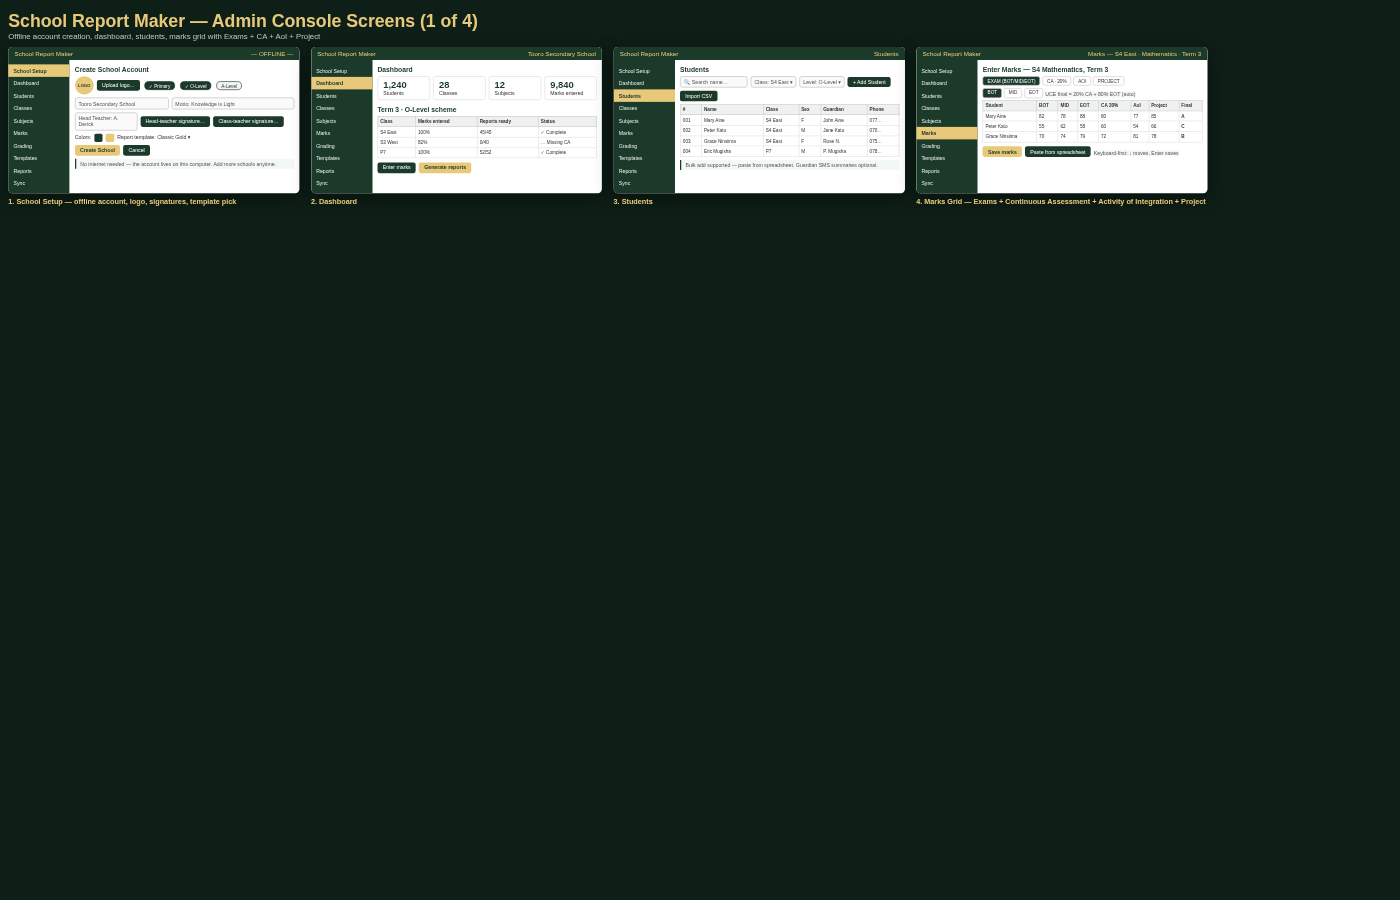
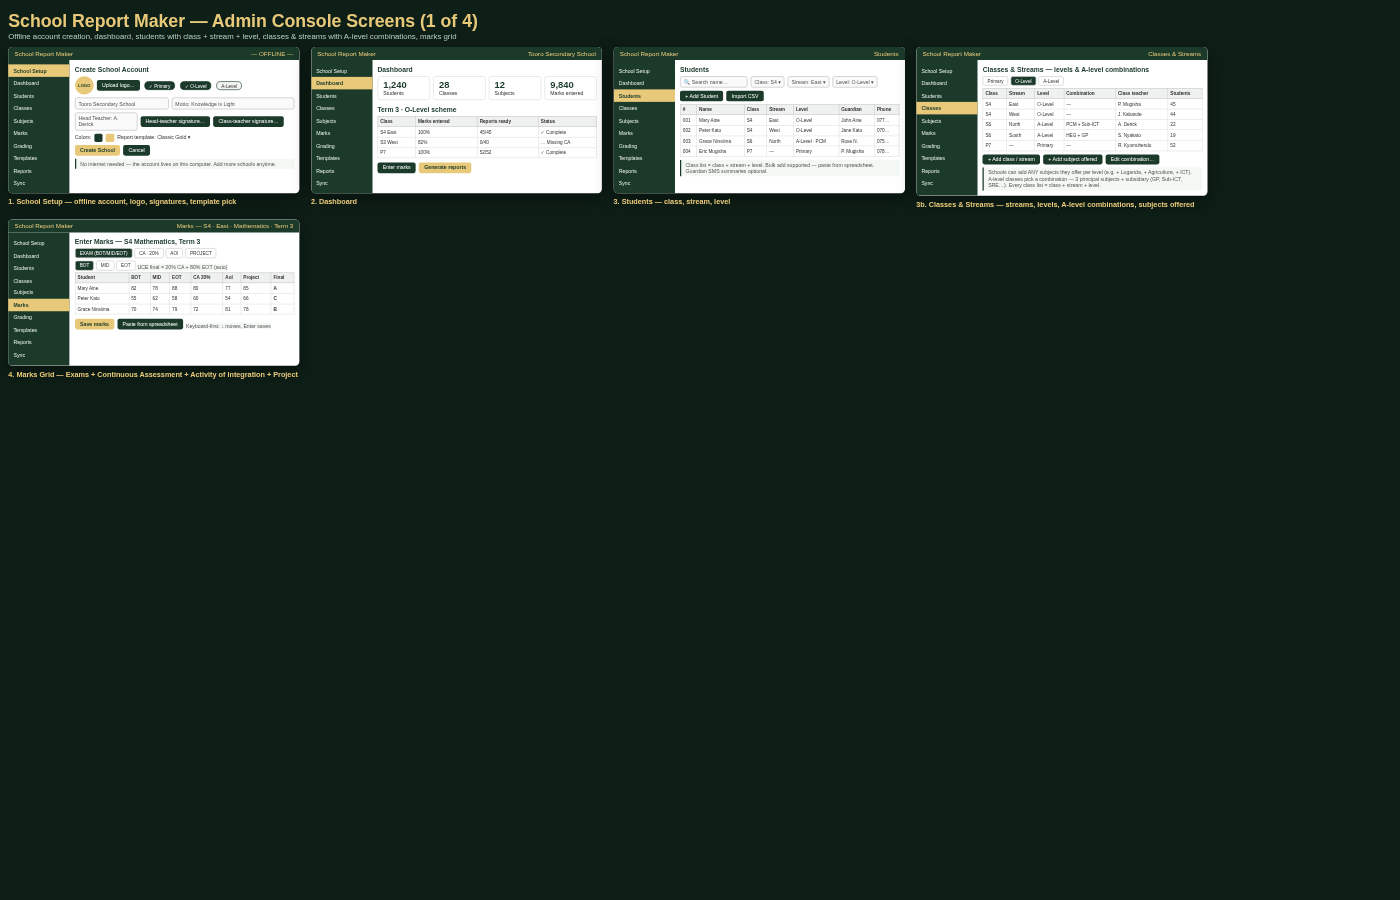
plan+design: class lists with class+stream+level on both apps, A-level combinations, schools can add subjects offered per level

diff --git a/design/screens-admin.html b/design/screens-admin.html
@@ -43,7 +43,7 @@ td{padding:4px;border:1px solid #e2e2e2}
 .cmt{border:1px dashed #999;padding:4px;margin:3px 0;font-size:8px;color:#333}
 </style></head><body>
 <h1>School Report Maker — Admin Console Screens (1 of 4)</h1>
-<p>Offline account creation, dashboard, students, marks grid with Exams + CA + AoI + Project</p>
+<p>Offline account creation, dashboard, students with class + stream + level, classes &amp; streams with A-level combinations, marks grid</p>
 <div class="wrap">
 
 <div class="cell"><div class="frame win">
@@ -75,17 +75,32 @@ td{padding:4px;border:1px solid #e2e2e2}
 <div class="tbar"><span>School Report Maker</span><span>Students</span></div>
 <div class="wbody"><div class="side"><div>School Setup</div><div>Dashboard</div><div class="on">Students</div><div>Classes</div><div>Subjects</div><div>Marks</div><div>Grading</div><div>Templates</div><div>Reports</div><div>Sync</div></div>
 <div class="main"><h3>Students</h3>
-<div class="row"><span class="inp" style="width:130px">🔍 Search name…</span><span class="inp">Class: S4 East ▾</span><span class="inp">Level: O-Level ▾</span><span class="btn">+ Add Student</span><span class="btn">Import CSV</span></div>
-<table><tr><th>#</th><th>Name</th><th>Class</th><th>Sex</th><th>Guardian</th><th>Phone</th></tr>
-<tr><td>001</td><td>Mary Aine</td><td>S4 East</td><td>F</td><td>John Aine</td><td>077…</td></tr>
-<tr><td>002</td><td>Peter Kato</td><td>S4 East</td><td>M</td><td>Jane Kato</td><td>070…</td></tr>
-<tr><td>003</td><td>Grace Ninsiima</td><td>S4 East</td><td>F</td><td>Rose N.</td><td>075…</td></tr>
-<tr><td>004</td><td>Eric Mugisha</td><td>P7</td><td>M</td><td>P. Mugisha</td><td>078…</td></tr></table>
-<div class="note">Bulk add supported — paste from spreadsheet. Guardian SMS summaries optional.</div>
-</div></div></div><div class="cap">3. Students</div></div>
+<div class="row"><span class="inp" style="width:130px">🔍 Search name…</span><span class="inp">Class: S4 ▾</span><span class="inp">Stream: East ▾</span><span class="inp">Level: O-Level ▾</span><span class="btn">+ Add Student</span><span class="btn">Import CSV</span></div>
+<table><tr><th>#</th><th>Name</th><th>Class</th><th>Stream</th><th>Level</th><th>Guardian</th><th>Phone</th></tr>
+<tr><td>001</td><td>Mary Aine</td><td>S4</td><td>East</td><td>O-Level</td><td>John Aine</td><td>077…</td></tr>
+<tr><td>002</td><td>Peter Kato</td><td>S4</td><td>West</td><td>O-Level</td><td>Jane Kato</td><td>070…</td></tr>
+<tr><td>003</td><td>Grace Ninsiima</td><td>S6</td><td>North</td><td>A-Level · PCM</td><td>Rose N.</td><td>075…</td></tr>
+<tr><td>004</td><td>Eric Mugisha</td><td>P7</td><td>—</td><td>Primary</td><td>P. Mugisha</td><td>078…</td></tr></table>
+<div class="note">Class list = class + stream + level. Bulk add supported — paste from spreadsheet. Guardian SMS summaries optional.</div>
+</div></div></div><div class="cap">3. Students — class, stream, level</div></div>
 
 <div class="cell"><div class="frame win">
-<div class="tbar"><span>School Report Maker</span><span>Marks — S4 East · Mathematics · Term 3</span></div>
+<div class="tbar"><span>School Report Maker</span><span>Classes &amp; Streams</span></div>
+<div class="wbody"><div class="side"><div>School Setup</div><div>Dashboard</div><div>Students</div><div class="on">Classes</div><div>Subjects</div><div>Marks</div><div>Grading</div><div>Templates</div><div>Reports</div><div>Sync</div></div>
+<div class="main"><h3>Classes &amp; Streams — levels &amp; A-level combinations</h3>
+<div class="tabs"><span class="tab">Primary</span><span class="tab on">O-Level</span><span class="tab">A-Level</span></div>
+<table><tr><th>Class</th><th>Stream</th><th>Level</th><th>Combination</th><th>Class teacher</th><th>Students</th></tr>
+<tr><td>S4</td><td>East</td><td>O-Level</td><td>—</td><td>P. Mugisha</td><td>45</td></tr>
+<tr><td>S4</td><td>West</td><td>O-Level</td><td>—</td><td>J. Kabarole</td><td>44</td></tr>
+<tr><td>S6</td><td>North</td><td>A-Level</td><td>PCM + Sub-ICT</td><td>A. Derick</td><td>22</td></tr>
+<tr><td>S6</td><td>South</td><td>A-Level</td><td>HEG + GP</td><td>S. Nyakato</td><td>19</td></tr>
+<tr><td>P7</td><td>—</td><td>Primary</td><td>—</td><td>R. Kyomuhendo</td><td>52</td></tr></table>
+<div class="row"><span class="btn">+ Add class / stream</span><span class="btn">+ Add subject offered</span><span class="btn">Edit combination…</span></div>
+<div class="note">Schools can add ANY subjects they offer per level (e.g. + Luganda, + Agriculture, + ICT). A-level classes pick a combination — 3 principal subjects + subsidiary (GP, Sub-ICT, SRE…). Every class list = class + stream + level.</div>
+</div></div></div><div class="cap">3b. Classes &amp; Streams — streams, levels, A-level combinations, subjects offered</div></div>
+
+<div class="cell"><div class="frame win">
+<div class="tbar"><span>School Report Maker</span><span>Marks — S4 · East · Mathematics · Term 3</span></div>
 <div class="wbody"><div class="side"><div>School Setup</div><div>Dashboard</div><div>Students</div><div>Classes</div><div>Subjects</div><div class="on">Marks</div><div>Grading</div><div>Templates</div><div>Reports</div><div>Sync</div></div>
 <div class="main"><h3>Enter Marks — S4 Mathematics, Term 3</h3>
 <div class="tabs"><span class="tab on">EXAM (BOT/MID/EOT)</span><span class="tab">CA · 20%</span><span class="tab">AOI</span><span class="tab">PROJECT</span></div>

diff --git a/design/screens-teacher.html b/design/screens-teacher.html
@@ -41,7 +41,7 @@ td{padding:3px;border:1px solid #e2e2e2}
 <div class="cell"><div class="phone">
 <div class="ptop"><span>⚡ SRS Teacher</span><span>○ Offline</span></div>
 <div class="pbody">
-<div class="row" style="gap:7px"><div class="logo">L</div><div><b>Tooro Secondary</b><br>My class: S4 East · 45 students<br>Scheme: O-Level (UCE)</div></div>
+<div class="row" style="gap:7px"><div class="logo">L</div><div><b>Tooro Secondary</b><br>My class: S4 · Stream East · O-Level<br>45 students · Scheme: UCE</div></div>
 <div class="card"><b>12</b>CA entries pending today</div>
 <div class="card"><b>3</b>Activity of Integration marks missing</div>
 <div class="card"><b>45/45</b>Exams done ✓</div>
@@ -52,7 +52,7 @@ td{padding:3px;border:1px solid #e2e2e2}
 </div><div class="cap">1. Home — class status + auto-send</div></div>
 
 <div class="cell"><div class="phone">
-<div class="ptop"><span>⚡ Marks</span><span>S4 · MTC · T3</span></div>
+<div class="ptop"><span>⚡ Marks</span><span>S4 · East · MTC · T3</span></div>
 <div class="pbody">
 <h3>Mathematics — S4 East</h3>
 <div class="tabs"><span class="tab on">Exams</span><span class="tab">CA 20%</span><span class="tab">AoI</span><span class="tab">Project</span></div>

diff --git a/PLAN.md b/PLAN.md
@@ -61,10 +61,11 @@ teacher-app/     Android app: Home, Marks entry per subject/assessment, Export b
 ## 5. Data model (v1)
 
 - School: name, address, motto, head teacher, emblem.
-- Level: Primary | O-Level | A-Level (with attached GradingScheme).
-- SchoolClass: name, stream, level, class teacher.
-- Student: names, sex, student number, guardian name + phone, level, active flag.
-- Subject: code + name, principal/subsidiary flag (A-level), compulsory flag.
+- Level: Primary | O-Level | A-Level (each with attached GradingScheme).
+- SchoolClass: class (S4, P7…) + STREAM (East, West…), level, class teacher, and its CLASS LIST (register of students). Both admin and teacher apps work in class + stream + level terms everywhere.
+- Combination: an A-level offering — 3 principal subjects + subsidiary (GP, Sub-ICT, SRE…); schools create their own combinations (PCM, HEG, ECB…), and each A-level class/stream follows one.
+- Student: names, sex, student number, guardian name + phone, level, class + stream, active flag.
+- Subject: fully editable — schools ADD or remove ANY subjects they offer, per level (default subject list preloaded); principal/subsidiary flag (A-level, per combination) and compulsory flag.
 - MarkEntry: student + subject + term (1-3) + assessment type + score. Assessment types, covering secondary continuous assessment and integration activities: EXAM (BOT / MID / EOT), CA (Continuous Assessment, 20% of the UCE final grade), AOI (Activity of Integration), PROJECT (Project Work — certificate completion requirement). Primary uses EXAM only; the type list per level is admin-editable.
 - SchoolAccount: offline-created school profile — name, level, logo image, motto, colors, head-teacher + class-teacher signature images, grading scheme, chosen report template, school data file. Many schools per install, each fully independent.
 - ReportTemplate: library of card designs per level (PLE / UCE / UACE x multiple layouts: Classic, Modern, Compact, Plain). Each school picks one and customizes (logo size, colors, header layout, comments position).
@@ -95,7 +96,7 @@ Both sides keep their local file as the primary database. The cloud is only a re
 - GRADING SCHEMES: implement the three UNEB schemes (PLE 1-9/divisions; UCE A-E competency-based with 20/80 CA/exam weighting and Result 1-3 indicators; UACE points) as data, not code
 - Grading scheme editor screen — admin adjusts boundaries, labels, points; scheme history kept
 - Levels: classes/students attached to Primary / O-Level / A-Level; reports render per scheme
-- Classes, Subjects, Teachers CRUD screens
+- Classes & Streams screens — class + stream + level on both apps; A-level COMBINATIONS (PCM, HEG, ECB… = 3 principals + subsidiary); schools can add more subjects offered at each level; Teachers CRUD screens
 - Marks entry grid in desktop (bulk, keyboard-first, paste-from-spreadsheet)
 - Import teacher bundle, merge marks (newest wins, everything logged)
 - Backup/restore with auto-rotating backups
@@ -160,7 +161,8 @@ Both sides keep their local file as the primary database. The cloud is only a re
 ADMIN CONSOLE (design/screens-admin.html):
 1. School Setup — offline account creation with logo, level, motto, colors, signatures
 2. Dashboard
-3. Students
+3. Students — class list by class + stream + level
+3b. Classes & Streams — levels, A-level combinations, add subjects offered
 4. Marks Grid — Exams (BOT/MID/EOT) + CA + AoI + Project columns
 5. Grading Scheme Editor — admin-adjustable boundaries, labels, points
 6. Report Template Library — multiple designs, per-school customization
@@ -168,7 +170,7 @@ ADMIN CONSOLE (design/screens-admin.html):
 8. Sync & Backup — auto-pull status, bundle import, backups
 
 TEACHER APP (design/screens-teacher.html):
-1. Home — class summary + auto-send status
-2. Marks Entry — Exams | CA | AoI | Project tabs
+1. Home — class + stream + level summary, auto-send status
+2. Marks Entry — pick class + stream + subject; Exams | CA | AoI | Project tabs
 3. Comments & Signature — per-student term comments, drawn signatures
 4. Report Preview & Send — card preview, auto-send status, USB export
